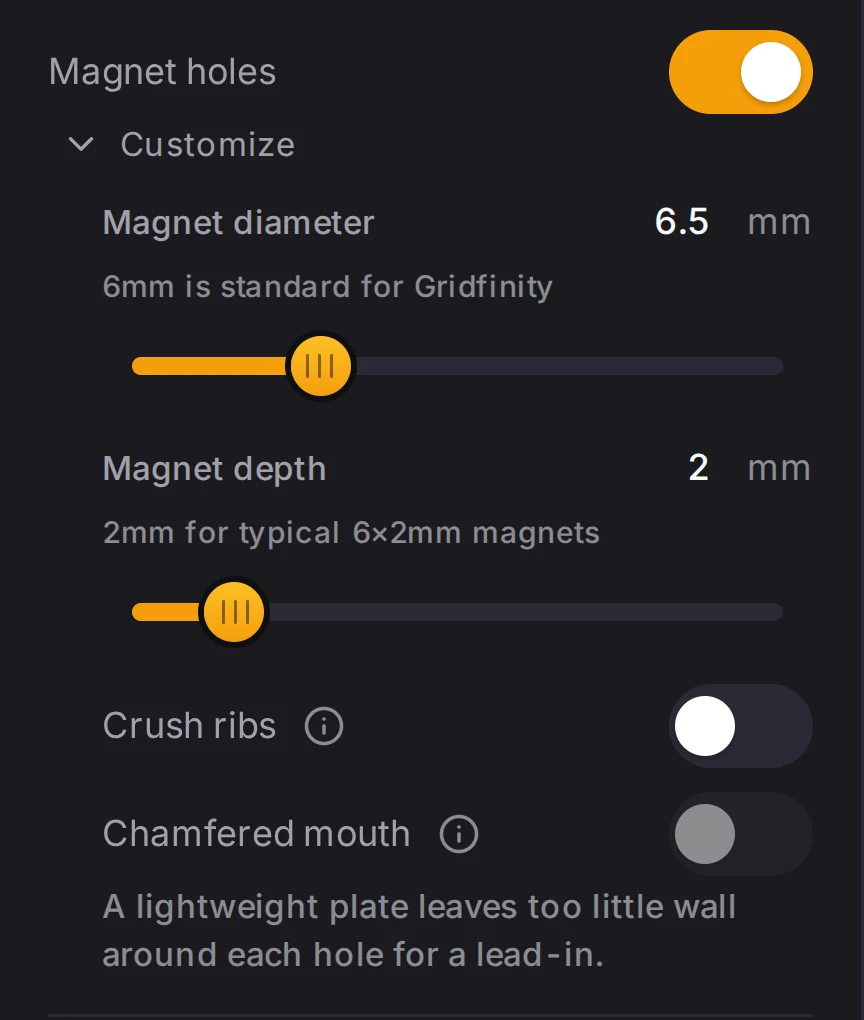
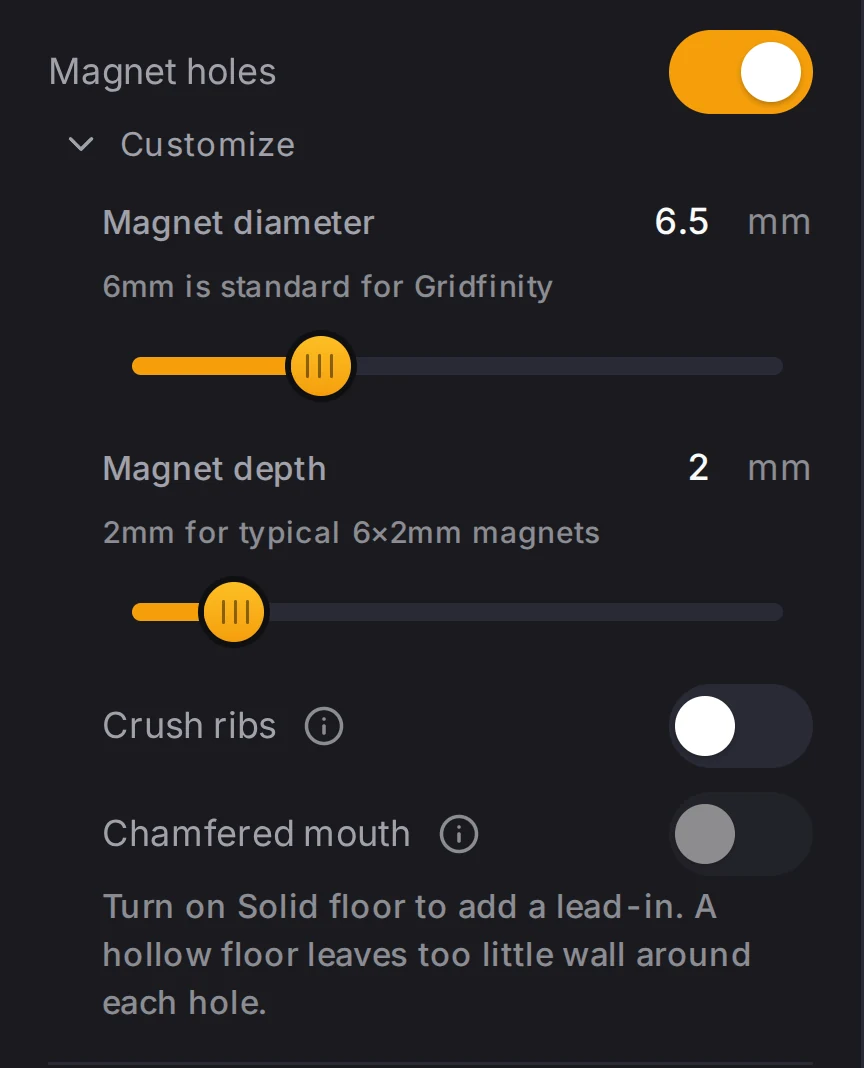
docs(user-docs): say that Chamfered mouth needs Solid floor, and recapture its panel

diff --git a/apps/docs/baseplates/magnets-and-screws.md b/apps/docs/baseplates/magnets-and-screws.md
@@ -39,7 +39,7 @@ All three are off by default. <Ui k="baseplate.stackPrint.enable" /> removes all
 
 Not sure? Keep the defaults. Gridfinity magnets are 6 by 2 mm discs.
 
-<Screenshot id="baseplates-magnets-magnet-settings" alt="Magnet holes is on and Customize is open. It shows Magnet diameter at 6.5 mm, Magnet depth at 2 mm, Crush ribs, and Chamfered mouth. Chamfered mouth is off, with a note that a lightweight plate leaves too little wall around each hole." spec="Baseplate generator, 4 by 3 plate with the default lightweight floor, Magnet holes on. Click Customize under Magnet holes. Crop to the panel from Magnet holes down to the note under Chamfered mouth." />
+<Screenshot id="baseplates-magnets-magnet-settings" alt="Magnet holes is on and Customize is open. It shows Magnet diameter at 6.5 mm, Magnet depth at 2 mm, Crush ribs, and Chamfered mouth. Chamfered mouth is off, with a note to turn on Solid floor for a lead-in." spec="Baseplate generator, 4 by 3 plate with the default lightweight floor, Magnet holes on. Click Customize under Magnet holes. Crop to the panel from Magnet holes down to the note under Chamfered mouth." />
 
 Your bins need magnets in the same places. In the bin designer, open <Ui k="binDesigner.group.base" /> and turn on magnet holes. See [The base](../designer/base#add-magnet-holes). For a big bin, turn on <Ui k="binDesigner.base.cornerHolesOnly" /> under <Ui k="binDesigner.base.section.mounting" />. The bin then gets holes only at its outer corners, so it needs fewer magnets and lifts off the plate more easily.
 
@@ -54,7 +54,7 @@ Want the magnets to stay in without glue? Two options under <Ui k="common.custom
 
 Each ridge stands 0.3 mm into the hole, so a hole that prints a little too large still grips the magnet. The bin designer has the same <Ui k="binDesigner.base.magnetCrushRibs" /> option for the magnet holes of a bin. See [Hold magnets without glue](../designer/base#hold-magnets-without-glue).
 
-If you can't turn on <Ui k="baseplate.magnetChamfer" />, the plate has too little wall around each hole for a lead-in. <Ui k="baseplate.magnetCrushRibs" /> still works on that plate.
+<Ui k="baseplate.magnetChamfer" /> needs <Ui k="baseplate.solidFloor" />. A plate without it has a hollow floor, which leaves too little wall around each hole for a lead-in. <Ui k="baseplate.magnetCrushRibs" /> works on either floor.
 
 ### Magnet position on large grids
 
